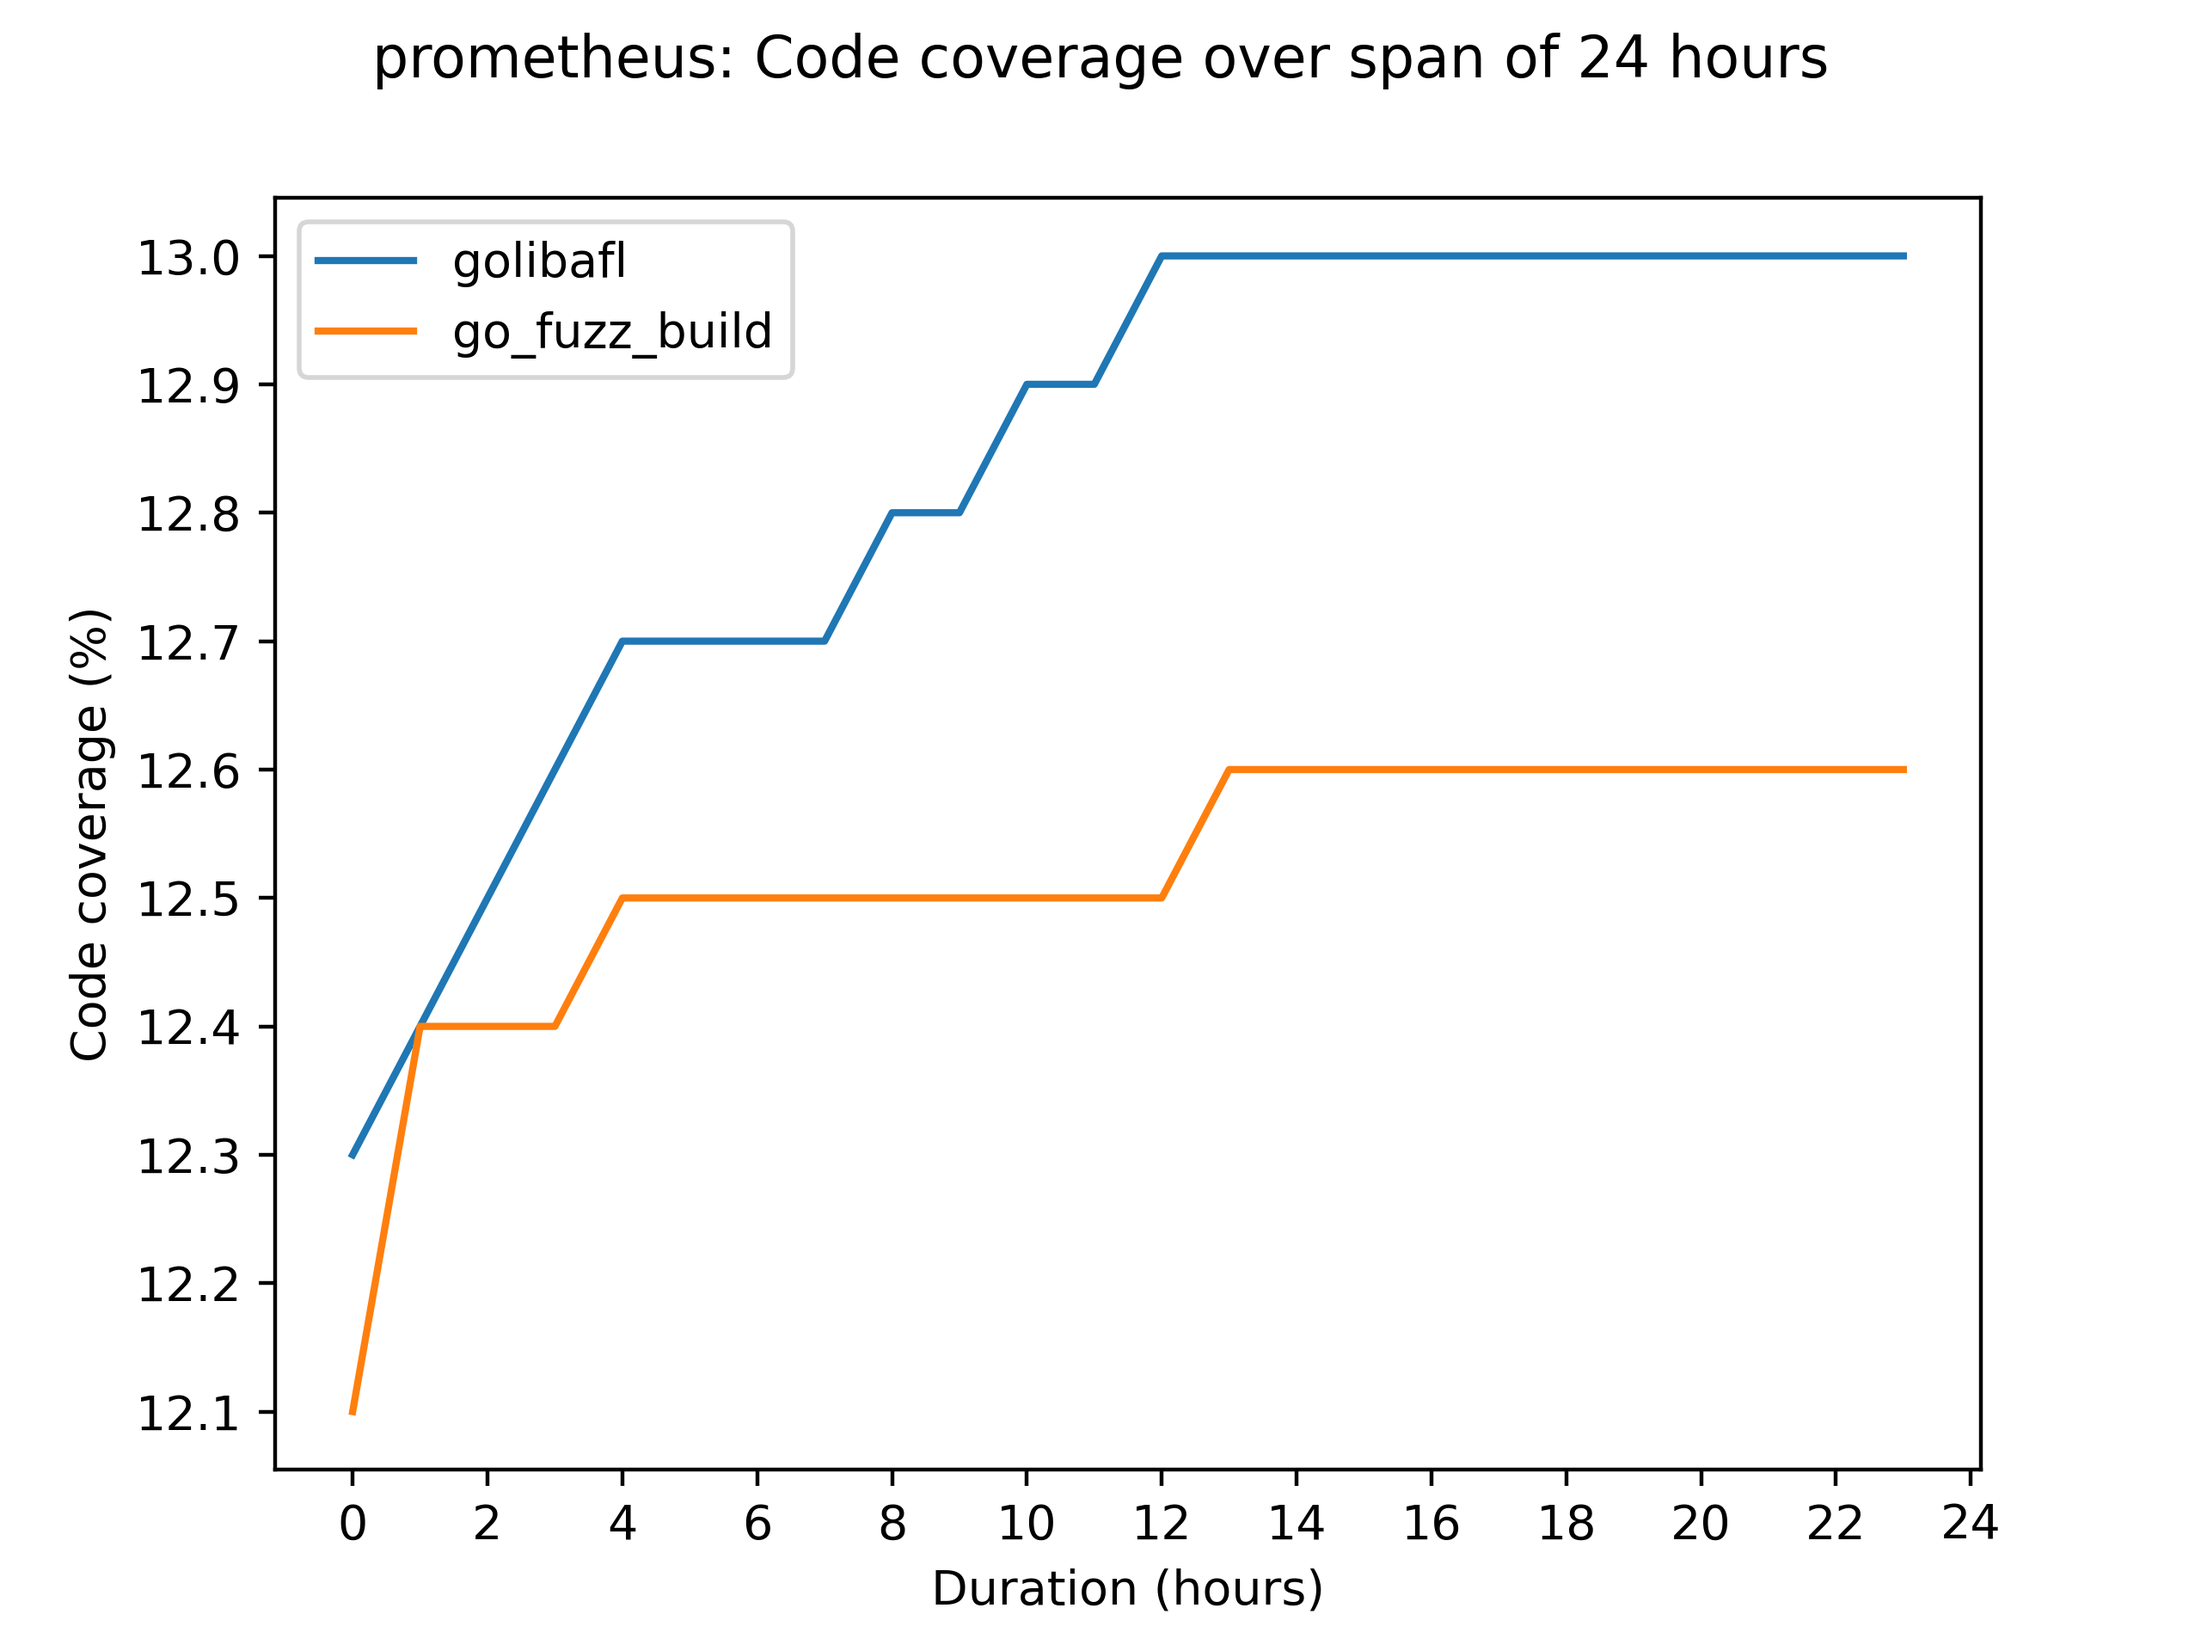
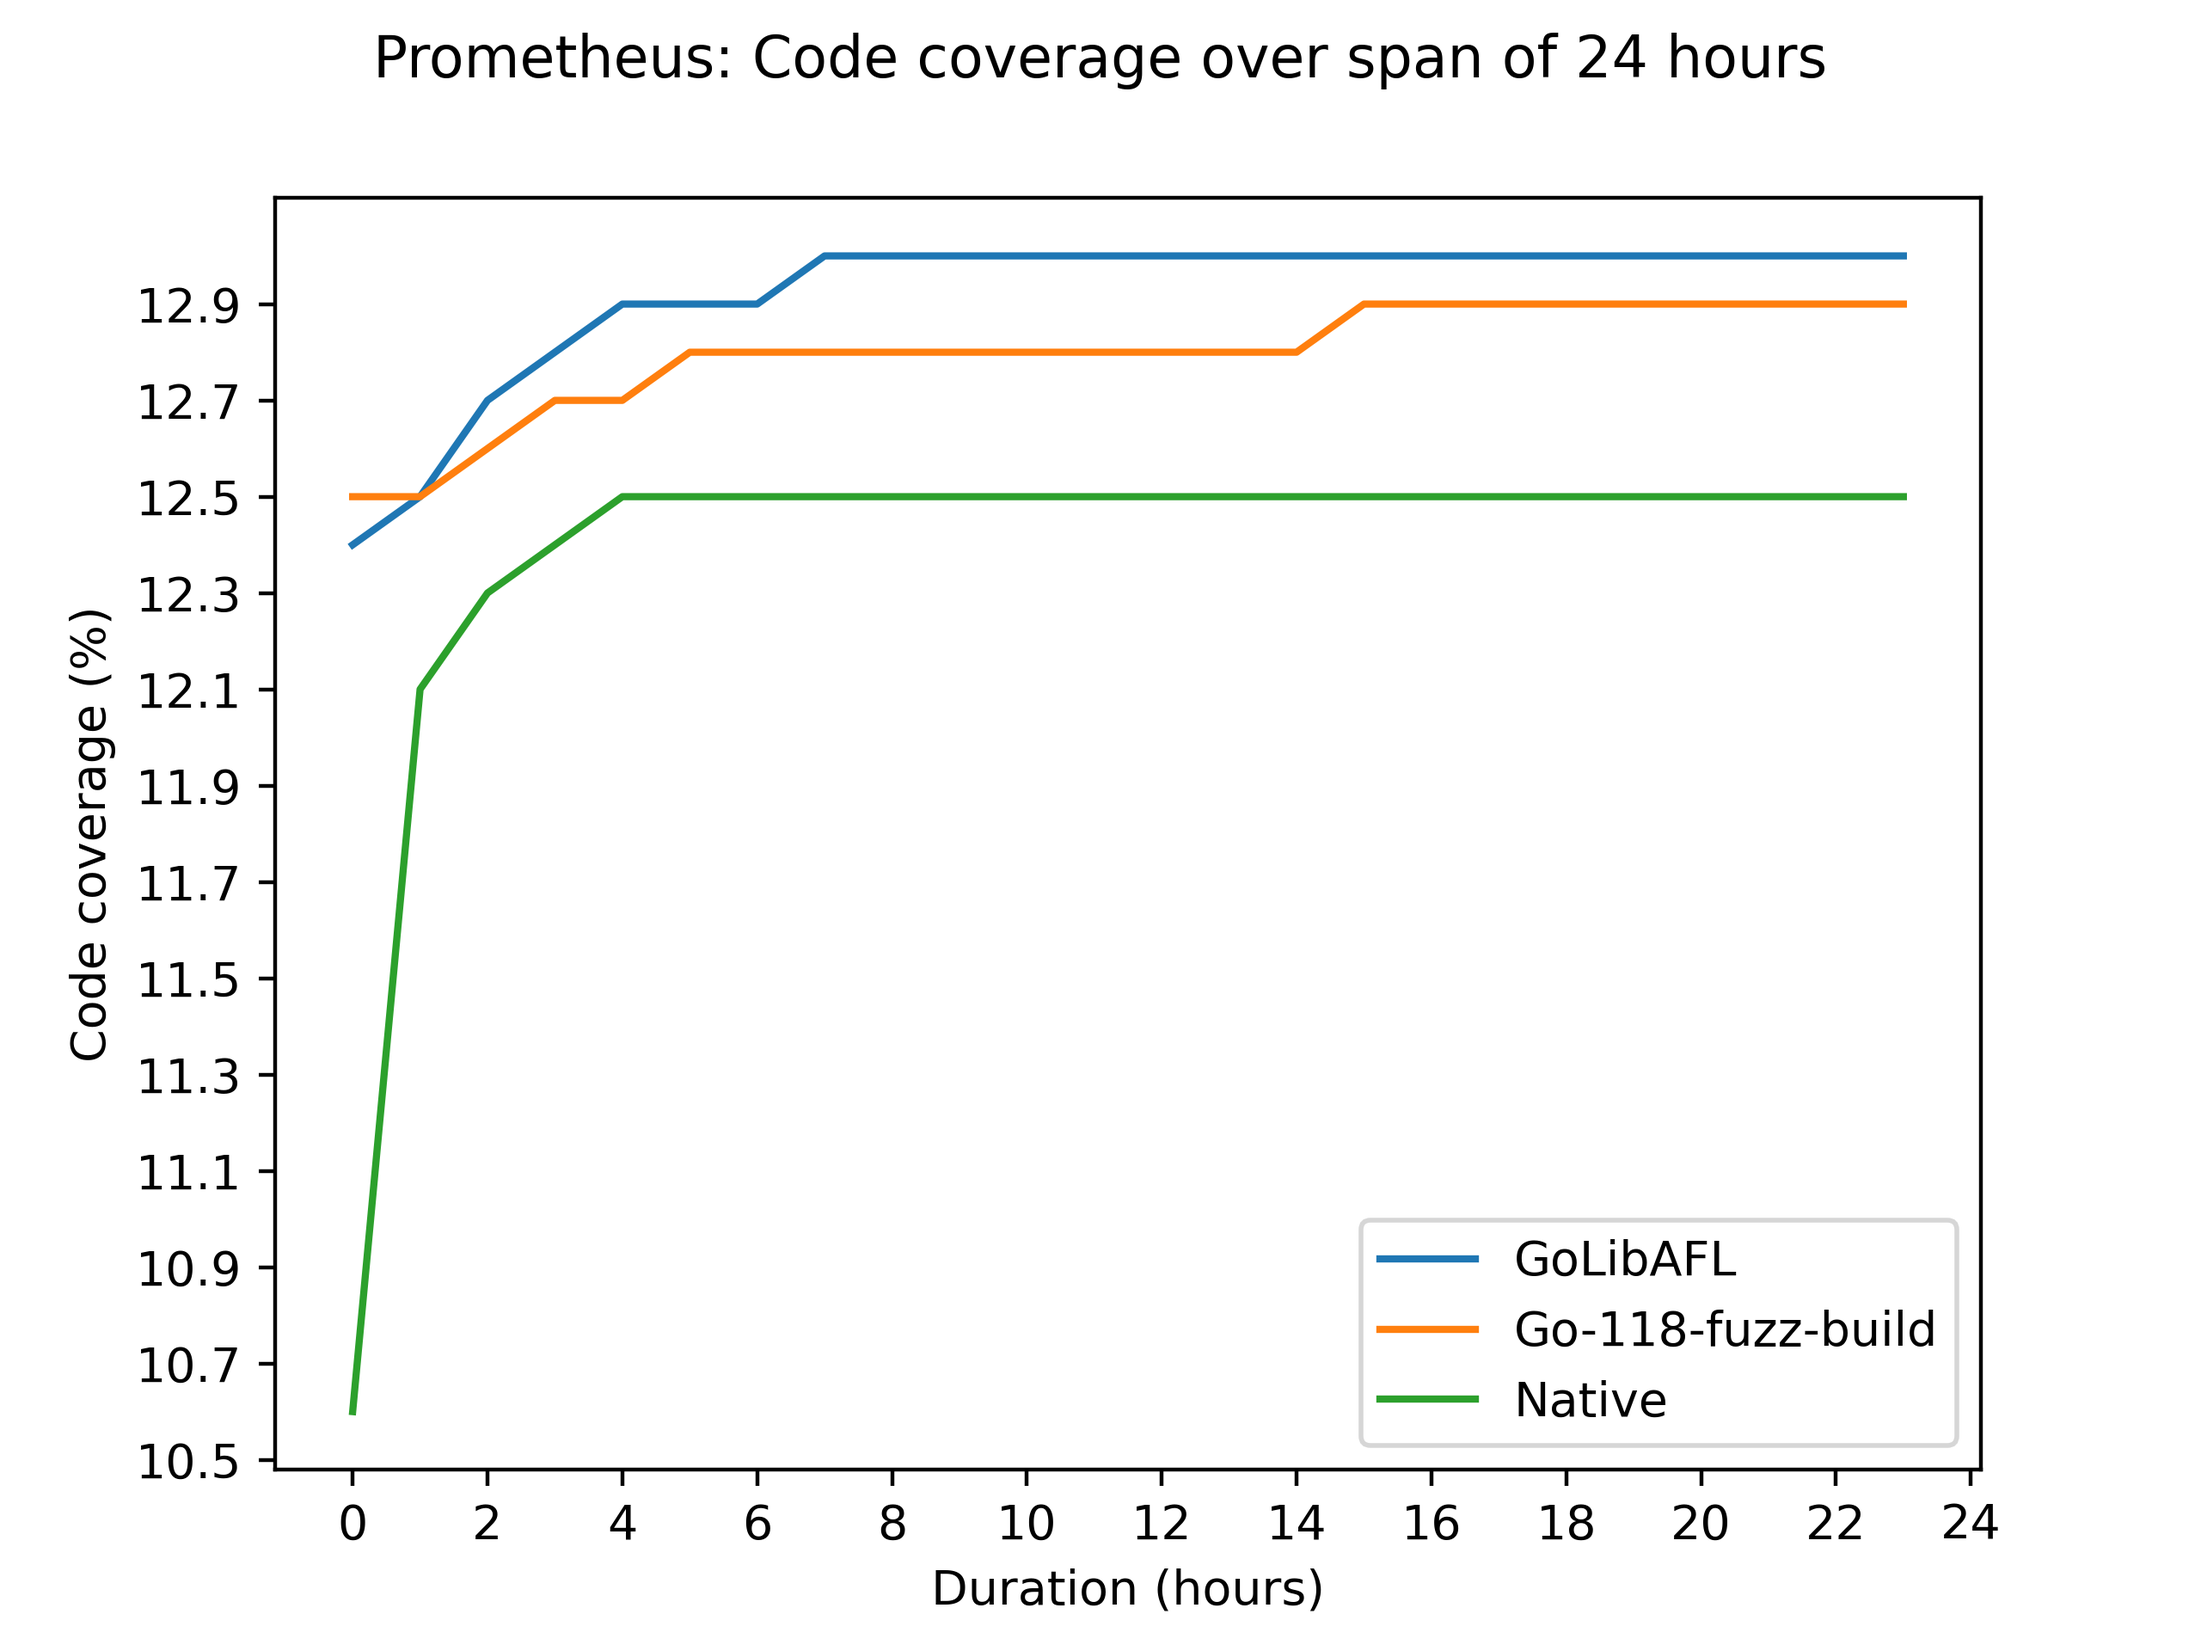
Update performance image, slightly adjust README

diff --git a/README.md b/README.md
@@ -9,7 +9,7 @@ By leveraging Go’s native libFuzzer-compatible instrumentation (`sancov_8bit`)
 - **Interoperability with Go** via Foreign Function Interface (FFI).
 
 ## Performance
-Comparing GoLibAFL with the native libfuzzer shows great performance. Running 24h on the prometheus example:
+Across all our 24-hour benchmarks, GoLibAFL consistently achieved higher code coverage than existing Go fuzzing solutions. Below is the result for the [prometheus](./harnesses/promql/) target.
 
 <img src="images/performance.png" width="600">
 
